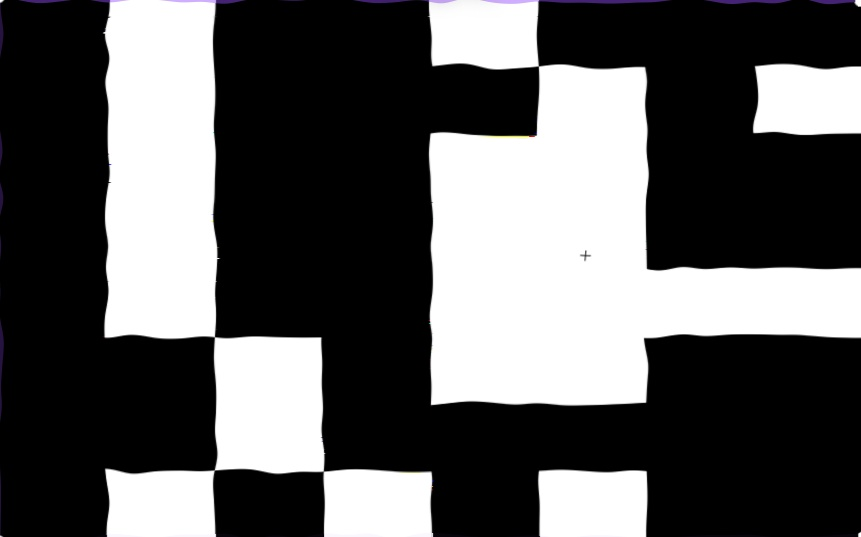
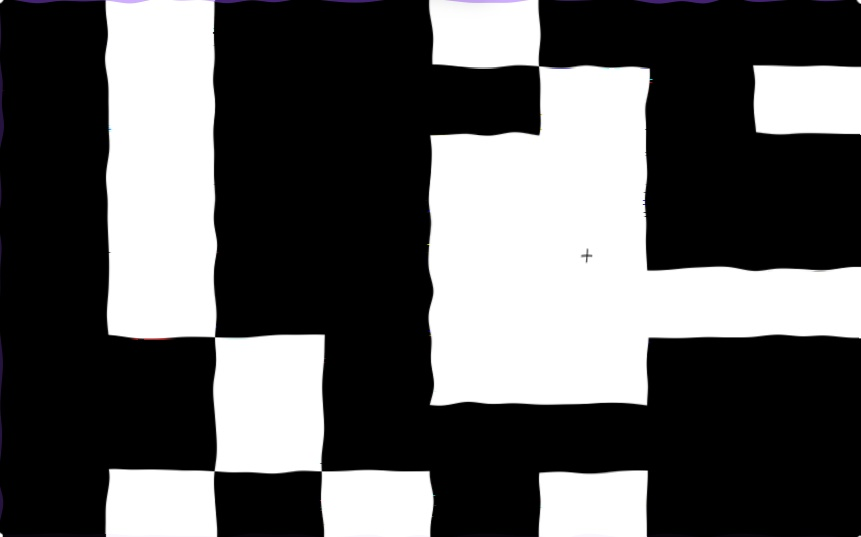
changed a little in the lay out in distorter, kernel and ocl

diff --git a/text/webcam_simulation/distorter.py b/text/webcam_simulation/distorter.py
@@ -6,7 +6,7 @@ import random
 
 # importing OpenCL(class) from ocl 
 # (used in jitter_color and white_balance_shifter)
-from ocl import OpenCL
+from webcam_simulation.ocl import OpenCL
 ocl = OpenCL()
 
 # --- Presets of the amount effects and severity ---
@@ -48,6 +48,7 @@ PRESETS = {
                     "jpeg_compress", "temporal_instability"]
     }
 }
+
 
 
 # --- Frame distorter ---
@@ -98,6 +99,7 @@ class FrameDistorter:
             1 if name in config["effects"] else 0
             for name in EFFECT_ORDER
         ], dtype=np.uint32)
+
 
     # Apply all effects
     def apply(self, frame):
@@ -170,7 +172,11 @@ class Effects:
         # GPU-accelerated processing
         ocl.run_jitter(brightness, contrast, gains)
     
-    def rolling_shutter(self, frame, severity, amplitude=2.0):
+
+    # --- Rolling shutter ---
+
+    @staticmethod
+    def rolling_shutter(frame, severity, amplitude=2.0):
         # generate slowly-varying row offsets; severity controls amplitude
         h, w, _ = frame.shape
         # base wobble scaled by severity and darkness maybe
@@ -185,10 +191,10 @@ class Effects:
         return ocl.run_rolling_shutter(row_offset)
 
 
-
     # --- Warp ---
 
-    def warp(self, frame, severity):
+    @staticmethod
+    def warp(frame, severity):
         # create low-res displacement map like before but then run on GPU
         h, w, _ = frame.shape
         max_strength = 5.0
@@ -210,12 +216,12 @@ class Effects:
 
     # --- jpeg compression blocking ---
 
+    @staticmethod
     def jpeg_compress(self, frame, severity):
         # map severity to quality: severity 0->100, 1->10
         quality = int(100 - severity * 90)
         block_size = 8 if frame.shape[1] <= 1280 else 16
         return ocl.run_jpeg_approx(block_size=block_size, quality=quality)
-
 
 
     # --- White balance shift ---
@@ -240,7 +246,6 @@ class Effects:
         return ocl.run_white_balance(gains)
 
 
-
     # --- Gaussian Blur ---
 
     @staticmethod
@@ -252,8 +257,6 @@ class Effects:
         # Map severity to sigma radius (~0.5–2.0 pixels)
         radius = 0.5 + severity * 2.0
         return ocl.run_blur(radius=radius)
-
-
 
 
     # --- Frame-Rate Instability ---
@@ -316,8 +319,6 @@ class Effects:
     @staticmethod
     def img_distortion(frame, which_effects):
         return ocl.run_image_distortion(frame, which_effects)
-
-
 
 
 # --- Test the distorter ---

diff --git a/text/webcam_simulation/ocl.py b/text/webcam_simulation/ocl.py
@@ -79,7 +79,7 @@ class OpenCL:
         self.queue = cl.CommandQueue(self.ctx)
 
         # Load kernel.cl from file
-        kernel_src = self.load_kernel_file(r"C:\Users\ejadmax\code\optical-laptop-communication\text\webcam_simulation\kernel.cl")
+        kernel_src = self.load_kernel_file(kernel_path)
         self.prg = cl.Program(self.ctx, kernel_src).build()
         
         # Create OpenCL kernels to able to reuse them
@@ -135,6 +135,7 @@ class OpenCL:
         self.map_x_buf = cl.Buffer(self.ctx, self.mf.READ_ONLY | self.mf.COPY_HOST_PTR, hostbuf=np.ascontiguousarray(map_x.astype(np.float32)))
         self.map_y_buf = cl.Buffer(self.ctx, self.mf.READ_ONLY | self.mf.COPY_HOST_PTR, hostbuf=np.ascontiguousarray(map_y.astype(np.float32)))
 
+
     # ---------- Rolling shutter ----------
 
     def run_rolling_shutter(self, row_offset):
@@ -145,6 +146,7 @@ class OpenCL:
 
         self.row_buf = cl.Buffer(self.ctx, self.mf.READ_ONLY | self.mf.COPY_HOST_PTR, 
                                  hostbuf=np.ascontiguousarray(row_offset.astype(np.float32)))
+
 
     # ---------- JPEG approximation ----------
     def run_jpeg_approx(self, block_size=8, quality=50):
@@ -196,6 +198,9 @@ class OpenCL:
         self.dy_r = 0.0
         self.dx_b = -severity * max_shift
         self.dy_b = 0.0
+    
+
+    # --- Image distortion ---
     
     def run_image_distortion(self, frame, which_effects):
         """
